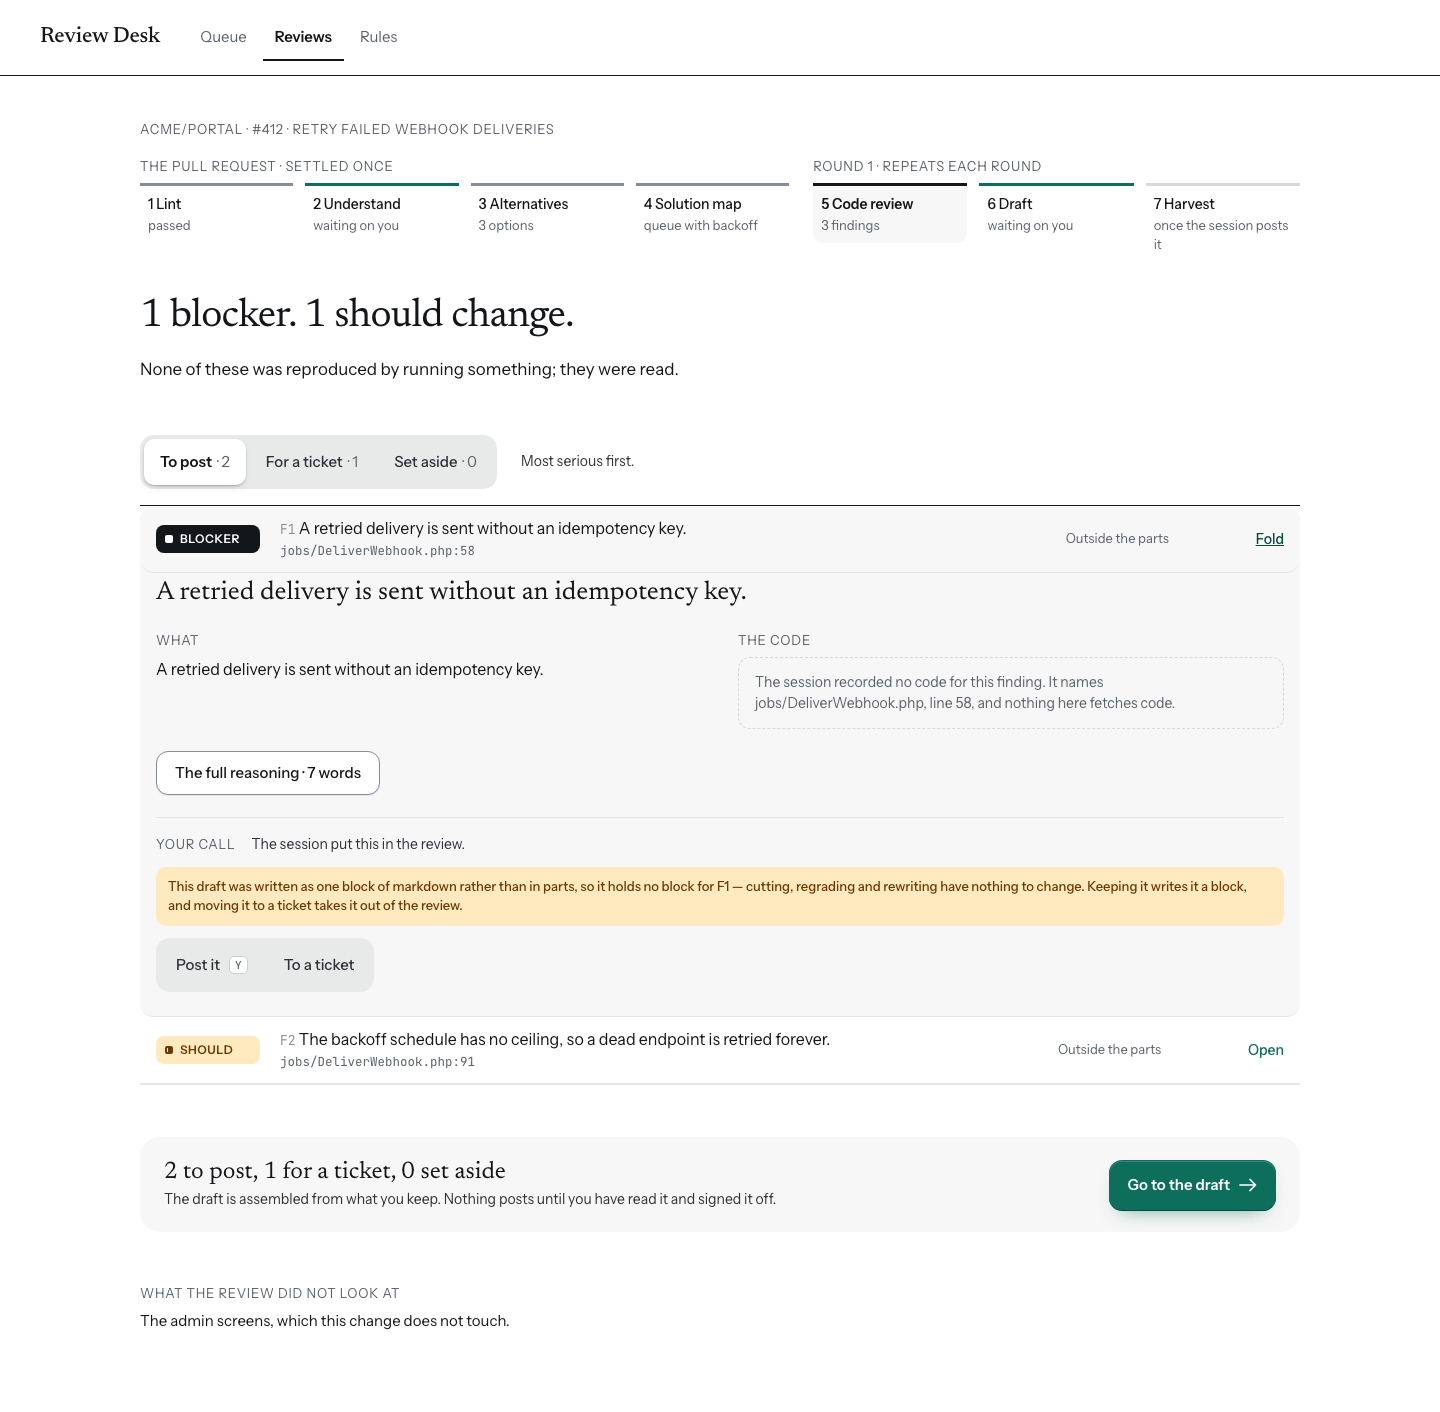
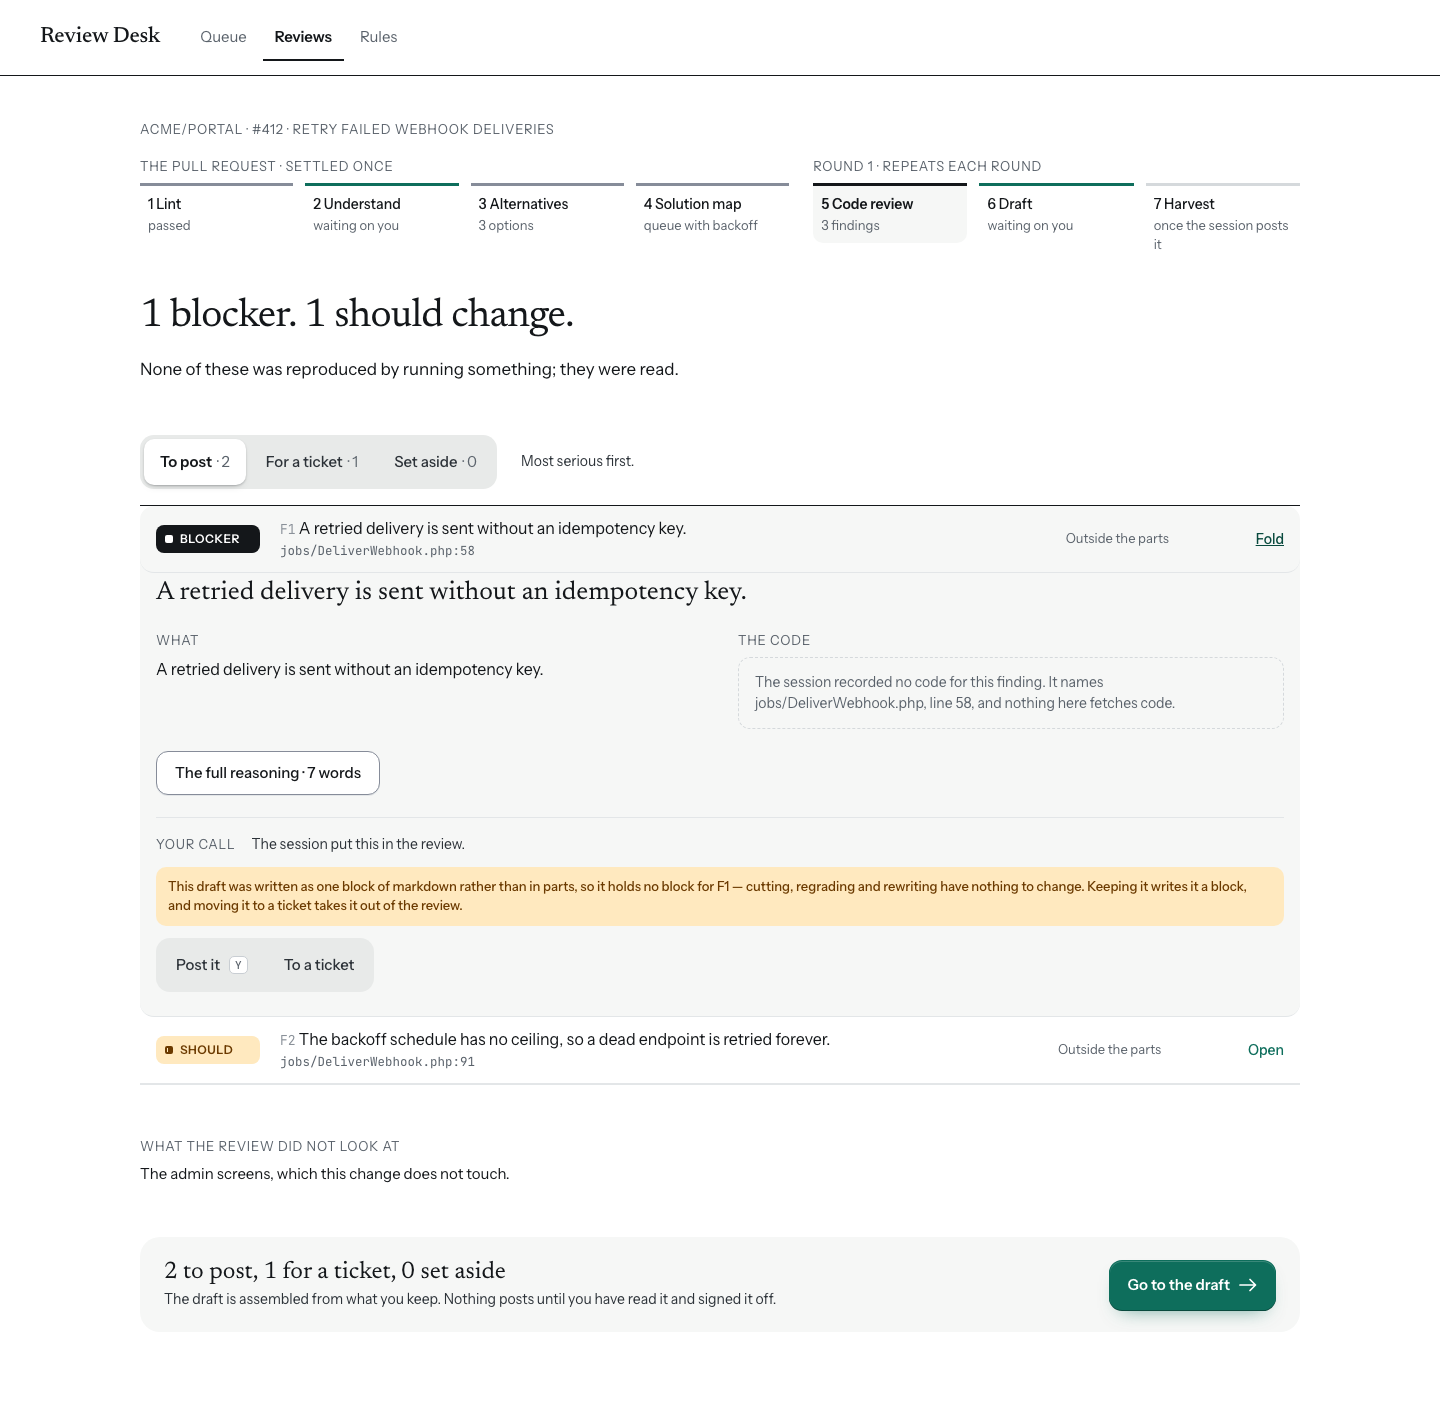
Six things a review of the fix commit found [DEV-878]
`e6e32ba` fixed nine findings and nobody read it: the review that produced those nine ran
over the diff before it. This is that pass, over `e6e32ba` alone. Eight findings, six of
them fixed here.

**"What the review did not look at" says nothing when the field is empty, and `not_checked`
is null on most reviews.** Moving the section out of the findings branch carried the half a
record happens to hold and left behind the half the retired screen drew beside it — "Nothing
is recorded as unchecked. That is not the same as everything having been checked." An absent
section reads as *nothing was missed*, which is the one thing this field can never be read to
say, and it is absent on exactly the review the move was made for: a step 5 that has not run
records no coverage either.

**The coverage then rendered below the foot** — below the grey panel with the tally and the
way on to step 6, which closes the page. A section under it reads as stranded past the end,
and the screenshot this pull request commits showed it. The foot is its own branch now, so
it is last; fixed in the DOM rather than with `order`, because a screen reader follows the
DOM and the two would have disagreed.

**"Nothing here for this part." still blamed the part when the list is empty everywhere.**
The fix keyed on `part === 0`, and the misattribution it was for runs the other way too: a
list holding nothing in the whole review holds nothing under a part either. Reachable by
[…]

Changed region(s): [[0.0938, 0.8102, 0.5312, 0.9348], [0.75, 0.8102, 0.9062, 0.9348]]

diff --git a/web/test/code-review.nuxt.spec.ts b/web/test/code-review.nuxt.spec.ts
@@ -185,6 +185,41 @@ describe('the code review page', () => {
   })
 
   /*
+   * **And says what an empty field means, rather than drawing nothing.**
+   *
+   * `not_checked` is null on most reviews, and a section that disappears there reads as
+   * "nothing was missed" — the one thing this field can never be read to say. The screen
+   * this page replaced drew the sentence; the move carried the half a record happens to
+   * hold and left this half behind.
+   */
+  it('says what an empty coverage field means', async () => {
+    const detail = fixture(REAL)
+    detail.not_checked = null
+    await withReview(detail)
+
+    const page = await codeReview(REAL)
+    expect(page.text()).toContain('What the review did not look at')
+    expect(page.text()).toContain('Nothing is recorded as unchecked')
+    expect(page.text()).toContain('not the same as everything having been looked at')
+  })
+
+  /*
+   * **The foot closes the page, so the coverage comes before it.**
+   *
+   * Moving the coverage out of the findings branch put it after the foot, which is the
+   * grey panel with the tally and the way on to step 6 — a section under it reads as
+   * stranded past the end of the page. Asserted on the order of the rendered markup,
+   * because the fix has to be in the DOM: `order` in the stylesheet would leave a screen
+   * reader hearing one order and the eye seeing another.
+   */
+  it('draws the coverage above the foot, not below it', async () => {
+    const page = await codeReview(REAL)
+    const html = page.html()
+    expect(html.indexOf('What the review did not look at'))
+      .toBeLessThan(html.indexOf('The draft is assembled from what you keep'))
+  })
+
+  /*
    * **The headline counts what will be posted, not what is in the "To post" list.**
    *
    * A finding carried into this round as `fixed` keeps the disposition it was carried
@@ -609,6 +644,28 @@ describe('the parts strip', () => {
     expect(page.find('.none').text()).toBe('Nothing here for this part.')
   })
 
+  /*
+   * **And blames the list, not the part, when the list is empty everywhere.**
+   *
+   * A list holding nothing in the whole review holds nothing under a part either, so
+   * "Nothing here for this part" there names a filter that is not the reason — the same
+   * misattribution as the default tile's, the other way round, and reachable by choosing
+   * "For a ticket" on a review with nothing held back and then choosing a part.
+   */
+  it('blames the list, not the part, when the list is empty everywhere', async () => {
+    const detail = fixture(REAL)
+    detail.findings = detail.findings.map(
+      finding => ({ ...finding, disposition: 'in_draft' as const }),
+    )
+    await withReview(detail)
+
+    const page = await codeReview(REAL)
+    await press(page, 'For a ticket')
+    expect(page.find('.none').text()).toContain('Nothing in this list')
+    await press(page, 'Tests and generated types')
+    expect(page.find('.none').text()).toContain('Nothing in this list')
+  })
+
   it('draws no strip at all for a brief with no parts', async () => {
     const page = await codeReview(ONE_BLOCK)
     expect(page.find('.strip').exists()).toBe(false)
@@ -726,6 +783,38 @@ describe('the developer’s decisions', () => {
     const block = draftFixture(REAL)
     expect(draft.text()).toContain('The policy runs after the query, not in it')
     expect(block, 'the fixture is unchanged; the record is what moved').toBeTruthy()
+  })
+
+  /*
+   * **An emptied box is an emptied paragraph, and the record has to agree.**
+   *
+   * `rewrite_finding_block` is `COALESCE(?4, text)`, so `null` means *leave the paragraph
+   * alone*: sending it for a box the developer had cleared kept the session's words while
+   * the notice said the finding would post in the developer's. The block composes to its
+   * heading alone, which `composed()` in `composition.rs` writes out as its own case and
+   * the contract allows. This was changed with no test over it.
+   */
+  it('posts a heading alone when the developer clears the paragraph', async () => {
+    const page = await codeReview(REAL)
+    await openFinding(page, 'F6')
+    await press(page, 'Rewrite')
+
+    const text = page.find('#rewrite-text')
+    const said = (text.element as HTMLTextAreaElement).value
+    expect(said.length, 'the box opens on the words that are there').toBeGreaterThan(0)
+
+    await text.setValue('')
+    await press(page, 'Post it in my words')
+
+    /*
+     * Read off the draft screen rather than off `draftFixture`, which loads the fixtures
+     * again and so answers about the document before any of this — the record is what
+     * moved, and the page is where the record is visible.
+     */
+    const draft = await draftPage(REAL)
+    expect(draft.text(), 'the session’s paragraph is gone').not.toContain(said)
+    expect(draft.text(), 'and the heading it belonged to is still there')
+      .toContain('The policy is applied after the query is built')
   })
 
   it('will not rewrite with a blank heading', async () => {

diff --git a/web/app/pages/reviews/[id]/code-review.vue b/web/app/pages/reviews/[id]/code-review.vue
@@ -141,6 +141,20 @@ const rows = computed(() =>
  */
 const posting = computed(() => findings.value.filter(willPost))
 
+/**
+ * Whether the list showing is empty over the whole review, part filter or no part filter.
+ *
+ * **Which is what the empty sentence turns on, and `part === 0` was not it.** A list that
+ * holds nothing anywhere holds nothing under a part either, and "Nothing here for this
+ * part" there blames a filter that is not the reason — the same misattribution the other
+ * way round, reachable by choosing "For a ticket" on a review with nothing held back and
+ * then choosing a part. The segments carry this count already; this reads the same fact
+ * where the sentence needs it.
+ */
+const listIsEmpty = computed(
+  () => !findings.value.some(finding => listOf(finding) === list.value),
+)
+
 const tiles = computed(() => partTiles(findings.value, parts.value))
 
 /**
@@ -406,7 +420,7 @@ function coverage(data: ReviewDetail): string | null {
               class="rd-empty none"
             >
               {{
-                part === 0
+                listIsEmpty
                   ? `Nothing in this list. The review's findings are all in the other two.`
                   : 'Nothing here for this part.'
               }}
@@ -712,7 +726,52 @@ function coverage(data: ReviewDetail): string | null {
               </li>
             </ul>
           </section>
+        </template>
 
+        <!--
+          What step 5 did not look at. Not on board A8, and the only place it was drawn was
+          the one-page review this replaces — it is step 5's own statement about its own
+          coverage, and the sentence the posted review carries.
+
+          **Outside the findings branch, deliberately.** It sat inside it and so vanished
+          from the one review that needs it most: a step 5 that finished and found nothing
+          says "we looked at X and not at Y", and the page was dropping the second half
+          exactly when it was the whole of the answer. Found by the self-review.
+        -->
+        <section class="not-checked">
+          <h2 class="rd-rubric">
+            What the review did not look at
+          </h2>
+          <p
+            v-if="coverage(data)"
+            class="rd-recorded"
+          >
+            {{ coverage(data) }}
+          </p>
+          <!--
+            **And it says so when the field is empty, which is most reviews.** The screen
+            this replaced drew the sentence; moving the section here carried the half a
+            record happens to hold and left the half that says what an empty field means.
+            An absent section reads as "nothing was missed", which is the one thing this
+            field can never be read to say — a review names what it skipped only where it
+            noticed skipping it.
+          -->
+          <p
+            v-else
+            class="rd-empty"
+          >
+            Nothing is recorded as unchecked. That is not the same as everything having been
+            looked at: a review names what it skipped only where it noticed skipping it.
+          </p>
+        </section>
+
+        <!--
+          **The foot is last, after the coverage, and that is why it is its own branch.**
+          It closes the page: the tally, and the way on to step 6. A section drawn under it
+          reads as stranded past the end — which is what the coverage line did when it moved
+          out of the branch above, in the picture this pull request commits.
+        -->
+        <template v-if="findings.length > 0">
           <section class="foot">
             <div class="foot-said">
               <p class="rd-display-card tally">
@@ -732,28 +791,6 @@ function coverage(data: ReviewDetail): string | null {
             </DeskButton>
           </section>
         </template>
-
-        <!--
-          What step 5 did not look at. Not on board A8, and the only place it was drawn was
-          the one-page review this replaces — it is step 5's own statement about its own
-          coverage, and the sentence the posted review carries.
-
-          **Outside the findings branch, deliberately.** It sat inside it and so vanished
-          from the one review that needs it most: a step 5 that finished and found nothing
-          says "we looked at X and not at Y", and the page was dropping the second half
-          exactly when it was the whole of the answer. Found by the self-review.
-        -->
-        <section
-          v-if="coverage(data)"
-          class="not-checked"
-        >
-          <h2 class="rd-rubric">
-            What the review did not look at
-          </h2>
-          <p class="rd-recorded">
-            {{ coverage(data) }}
-          </p>
-        </section>
       </ReviewStepPage>
     </template>
   </DeskState>

diff --git a/web/app/utils/findings.ts b/web/app/utils/findings.ts
@@ -133,8 +133,15 @@ export function reproducedLine(findings: Finding[]): string | null {
   const reproduced = findings.filter(
     finding => finding.verification === 'reproduced',
   ).length
+  /*
+   * One finding is its own sentence here too. "None of these was reproduced … they were
+   * read" is three plurals about one finding, which is the agreement the branches below
+   * were fixed for — and a review with a single finding reaches this branch first.
+   */
   if (reproduced === 0) {
-    return 'None of these was reproduced by running something; they were read.'
+    return findings.length === 1
+      ? 'It was not reproduced by running something; it was read.'
+      : 'None of these was reproduced by running something; they were read.'
   }
   /*
    * **One finding is its own sentence.** "1 of 1 finding were reproduced … The rest were

diff --git a/web/app/components/FindingCall.vue b/web/app/components/FindingCall.vue
@@ -238,7 +238,13 @@ function rewrite() {
    * it differs from what the block holds — including when what it differs *to* is nothing,
    * which is a heading on its own and a shape the contract allows.
    */
-  const was = block.value?.text ?? ''
+  /*
+   * Trimmed on both sides of the comparison. `paragraph` is trimmed and the block's text is
+   * not, so a block the session wrote with a trailing space differed from a textarea nobody
+   * touched — and a rewrite of the title alone then sent a paragraph with it, set
+   * `rewritten`, and had the outcome say the developer wrote words they never opened.
+   */
+  const was = (block.value?.text ?? '').trim()
   emit('decide', {
     decision: 'rewrite',
     title: heading,

diff --git a/web/test/findings.spec.ts b/web/test/findings.spec.ts
@@ -176,6 +176,16 @@ describe('how the findings were checked', () => {
       .toBe('None of these was reproduced by running something; they were read.')
   })
 
+  /*
+   * And the same agreement here, which the branches above were fixed for and this one was
+   * not: "None of these … they were read" is three plurals about one finding, and a single
+   * finding reaches this branch before either of them.
+   */
+  it('keeps the agreement when one finding was not reproduced', () => {
+    expect(reproducedLine([finding({ seq: 1 })]))
+      .toBe('It was not reproduced by running something; it was read.')
+  })
+
   it('says nothing at all about a review with no findings', () => {
     expect(reproducedLine([])).toBeNull()
   })
